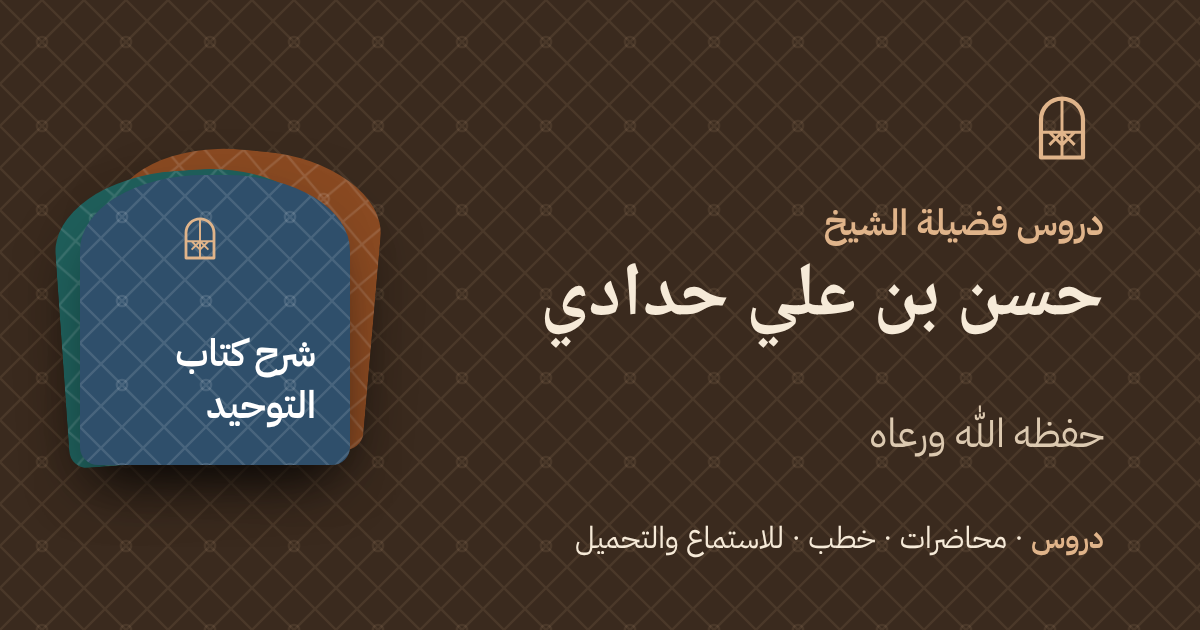
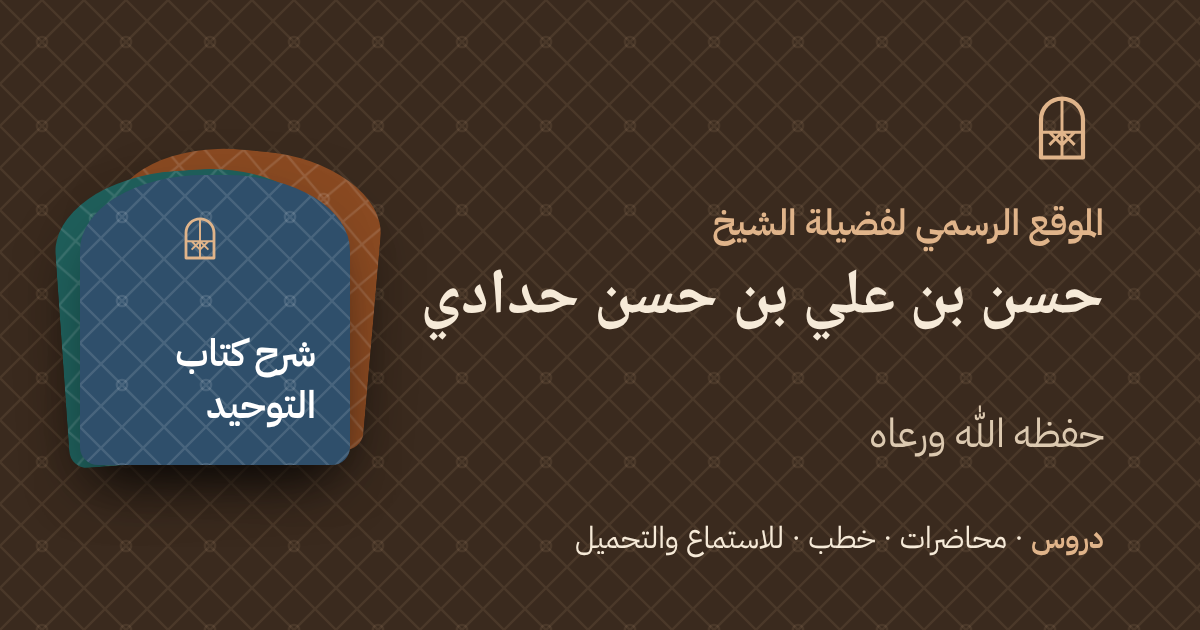
Official site: «الموقع الرسمي لفضيلة الشيخ حسن بن علي بن حسن حدادي», WhatsApp group link (#3)
Title, link previews (og:site_name, og image) and footer use the official
wording and full name. The second Telegram channel is no longer linked
(lessons are still imported from it); the WhatsApp group is linked instead.

Claude-Session: https://claude.ai/code/session_01T9hE6tEdAGrFwL1xvuRr3k

Changed region(s): [[0.3392, 0.4222, 0.925, 0.5429], [0.5858, 0.3317, 0.925, 0.3921]]

diff --git a/site/js/views.js b/site/js/views.js
@@ -74,7 +74,7 @@ function crumbs(items) {
 const mkPage = o => ({ status: 200, noindex: false, jsonld: [], image: OG_DEFAULT, ogType: "website", nav: "", wire: { t: "none" }, ...o,
   html: `${o.band ? `<div class="band">${o.band}</div>` : ""}<div class="wrap page">${o.html}</div>` });
 const band = (inner, cls = "") => `<div class="wrap band-in${cls ? " " + cls : ""}">${inner}</div>`;
-const SITE_SUFFIX = ` | دروس ${NAME}`;
+const SITE_SUFFIX = ` | الموقع الرسمي للشيخ ${FULL_NAME}`;
 const withSite = t => t + SITE_SUFFIX;
 /* link previews (WhatsApp, Telegram, X): the page's own title; the site name comes from og:site_name */
 export const ogTitle = p => p.title.endsWith(SITE_SUFFIX) ? p.title.slice(0, -SITE_SUFFIX.length) : p.title;
@@ -110,7 +110,7 @@ function home() {
     jsonld: [
       { "@context": "https://schema.org", "@type": "WebSite", name: OFFICIAL_NAME, alternateName: ["دروس الشيخ حسن حدادي", NAME_FULL], url: SITE + "/", inLanguage: "ar",
         potentialAction: { "@type": "SearchAction", target: `${SITE}/search/?q={search_term_string}`, "query-input": "required name=search_term_string" } },
-      { "@context": "https://schema.org", "@type": "Person", name: FULL_NAME, alternateName: ["حسن حدادي", "الشيخ حسن حدادي", "الشيخ حسن بن علي حدادي"], honorificPrefix: "الشيخ", url: SITE + "/", sameAs: LINKS.map(x => x.h) },
+      { "@context": "https://schema.org", "@type": "Person", name: FULL_NAME, alternateName: ["حسن بن علي حدادي", "حسن حدادي", "الشيخ حسن حدادي", "الشيخ حسن بن علي حدادي"], honorificPrefix: "الشيخ", url: SITE + "/", sameAs: LINKS.map(x => x.h) },
     ],
   });
 }
@@ -392,7 +392,7 @@ function aboutPage() {
   return mkPage({
     nav: "about", path: "/about/", html, ogType: "profile",
     title: withSite("عن الشيخ"), description: clip(b.summary || `نبذة عن ${NAME_FULL}.`, 160),
-    jsonld: [c.ld, { "@context": "https://schema.org", "@type": "Person", name: FULL_NAME, alternateName: ["حسن حدادي", "الشيخ حسن حدادي", "الشيخ حسن بن علي حدادي"], honorificPrefix: "الشيخ", url: SITE + "/about/", ...(photo ? { image: photo.startsWith("/") ? SITE + photo : photo } : {}), sameAs: LINKS.map(x => x.h) }],
+    jsonld: [c.ld, { "@context": "https://schema.org", "@type": "Person", name: FULL_NAME, alternateName: ["حسن بن علي حدادي", "حسن حدادي", "الشيخ حسن حدادي", "الشيخ حسن بن علي حدادي"], honorificPrefix: "الشيخ", url: SITE + "/about/", ...(photo ? { image: photo.startsWith("/") ? SITE + photo : photo } : {}), sameAs: LINKS.map(x => x.h) }],
   });
 }
 
@@ -467,7 +467,7 @@ export function chromeBottom(nav) {
 }
 export const footer = () => `<footer class="foot"><div class="wrap">
   <p class="foot-official"><span class="mark" aria-hidden="true">${STAR}</span><strong>${esc(OFFICIAL_NAME)} حفظه الله ورعاه</strong>${state.bio ? `، <a href="${href.about()}">عن الشيخ</a>` : ""}${SCHEDULE.items.length ? `، <a href="${href.schedule()}">جدول الدروس</a>` : ""}${state.ann.length ? `، <a href="${href.announcements()}">إعلانات الدروس</a>` : ""}${hasDocs() ? `، <a href="${href.documents()}">التزكيات والوصايا</a>` : ""}</p>
-  <p>المواد الصوتية مأخوذة من <a href="${TG_CHANNEL}" target="_blank" rel="noopener">قنوات الشيخ على تيليجرام</a>.</p>
+  <p>المواد الصوتية مأخوذة من <a href="${TG_CHANNEL}" target="_blank" rel="noopener">قناة الشيخ على تيليجرام</a>.</p>
   <p class="foot-links">${LINKS.map(x => `<a href="${x.h}" target="_blank" rel="noopener">${x.t}</a>`).join("")}</p>
   <p class="foot-up">آخر تحديث للفهرس: ${fmtDate(state.DB.updated)}</p></div></footer>`;
 

diff --git a/site/js/core.js b/site/js/core.js
@@ -6,15 +6,16 @@ import { ICONS } from "./icons.js";
 export const SITE = ((typeof process !== "undefined" && process.env && process.env.SITE_URL) || "https://hadadi.emah84.workers.dev").replace(/\/$/, "");
 export const NAME = "الشيخ حسن بن علي حدادي";
 export const NAME_FULL = `${NAME} حفظه الله`;
-export const OFFICIAL_PRE = "دروس فضيلة الشيخ";   // not «الموقع الرسمي» until the Sheikh's side asks for that wording
-export const FULL_NAME = "حسن بن علي حدادي";
+export const OFFICIAL_PRE = "الموقع الرسمي لفضيلة الشيخ";   // owner 2026-11-17: «الموقع الرسمي لفضيلة الشيخ حسن بن علي بن حسن حدادي»
+export const FULL_NAME = "حسن بن علي بن حسن حدادي";
 export const ROLE = "";
 export const OFFICIAL_NAME = `${OFFICIAL_PRE} ${FULL_NAME}`;
 export const YT_CHANNEL = "";
 export const TG_CHANNEL = "https://t.me/h_haddadi7";
-export const TG_CHANNEL_2 = "https://t.me/masothrbj47";
+export const TG_CHANNEL_2 = "https://t.me/masothrbj47";   // lessons are still imported from it; not linked (owner 2026-11-17)
+export const WA_GROUP = "https://chat.whatsapp.com/BupKFX5G3236scpMYX05L1";
 export const LINKS = [
-  { t: "قناة الشيخ على تيليجرام", h: TG_CHANNEL }, { t: "قناة الدروس الثانية", h: TG_CHANNEL_2 },
+  { t: "قناة الشيخ على تيليجرام", h: TG_CHANNEL }, { t: "مجموعة الشيخ على واتساب", h: WA_GROUP },
 ];
 
 /* ───────── Site structure ─────────  Every series belongs to one section (series.sec). Books are their own collection. */

diff --git a/CLAUDE.md b/CLAUDE.md
@@ -1,10 +1,10 @@
-# CLAUDE.md — دروس فضيلة الشيخ حسن بن علي حدادي
+# CLAUDE.md — الموقع الرسمي لفضيلة الشيخ حسن بن علي بن حسن حدادي
 
 Arabic (RTL) website for the lessons, khutab and lectures of **الشيخ حسن بن علي حدادي حفظه الله** (Jeddah), built from his two Telegram channels. It runs on the same engine as Mohamed-AH/yahyaaljabri (which is itself a fork of Mohamed-AH/drwasiullah): same pipeline, player, pre-renderer, Worker and tests, but its own look and content. Read `README.md` for the pipeline.
 
 ## State (2026-11-17)
-- First version: 516 recordings in 27 series (≈247 hours) from t.me/h_haddadi7 (main channel) and t.me/masothrbj47 («دروس الشيخ … رقم 2»), JSON exports without media, 555 pages. e2e 26/26, xss pass, axe 0 violations, player 12/12, worker/bot tests pass.
-- **Not «الموقع الرسمي»:** the site says «دروس فضيلة الشيخ …» (`OFFICIAL_PRE` in `core.js`) until the Sheikh's side asks for the official wording.
+- 556 recordings in 28 series (≈257 hours) after the 2026-11-17 title/merge fixes (first version: 516 in 27) from t.me/h_haddadi7 (main channel) and t.me/masothrbj47 («دروس الشيخ … رقم 2»), JSON exports without media, 555 pages. e2e 26/26, xss pass, axe 0 violations, player 12/12, worker/bot tests pass.
+- **Official site (owner 2026-11-17):** «الموقع الرسمي لفضيلة الشيخ حسن بن علي بن حسن حدادي» (`OFFICIAL_PRE`, `FULL_NAME` in `core.js`; the header keeps the short «الشيخ حسن بن علي حدادي»). Links: the main Telegram channel and the WhatsApp group (`WA_GROUP`); the second channel (masothrbj47) is still imported but not linked.
 - **Audio not hosted yet:** every lesson page links to its Telegram post. When the owner runs `tools/fetch_audio.py` (Telethon, his own account; uploads mono AAC to R2 bucket `hadadi-media`, writes `site/data/media.json`) the pages get the docked player. Note: once `media.json` exists, `scripts/build.mjs` publishes **only** hosted lessons (the Jabri owner's rule); `SHOW_UNHOSTED=1` keeps the rest. Decide with the owner before the first upload.
 - No domain yet: `SITE` in `core.js` is the workers.dev address (`SITE_URL` overrides). `MEDIA_HOST` in `worker/index.js` is a placeholder until the bucket has a public domain.
 - No timers, announcements bot or YouTube sync yet (`JOBS = {}`, `crons: []`, no workflows). The code for them is still here from the Jabri site.

diff --git a/README.md b/README.md
@@ -1,4 +1,4 @@
-# دروس فضيلة الشيخ حسن بن علي حدادي
+# الموقع الرسمي لفضيلة الشيخ حسن بن علي بن حسن حدادي
 
 An Arabic (right-to-left) static website that organises the lessons, khutab and lectures of الشيخ حسن بن علي حدادي حفظه الله (Jeddah). It runs on the engine of [yahyaaljabri](https://github.com/Mohamed-AH/yahyaaljabri) (same pipeline, player, hosting and tests) with its own design, "Roshan", after the carved wooden windows of old Jeddah.
 
